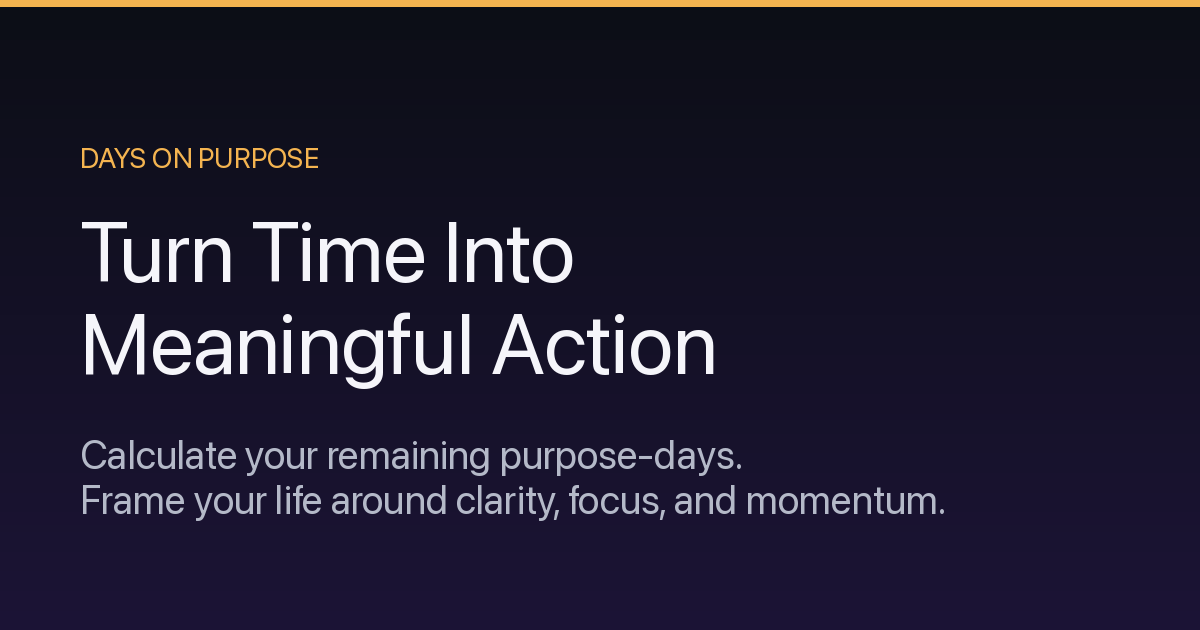
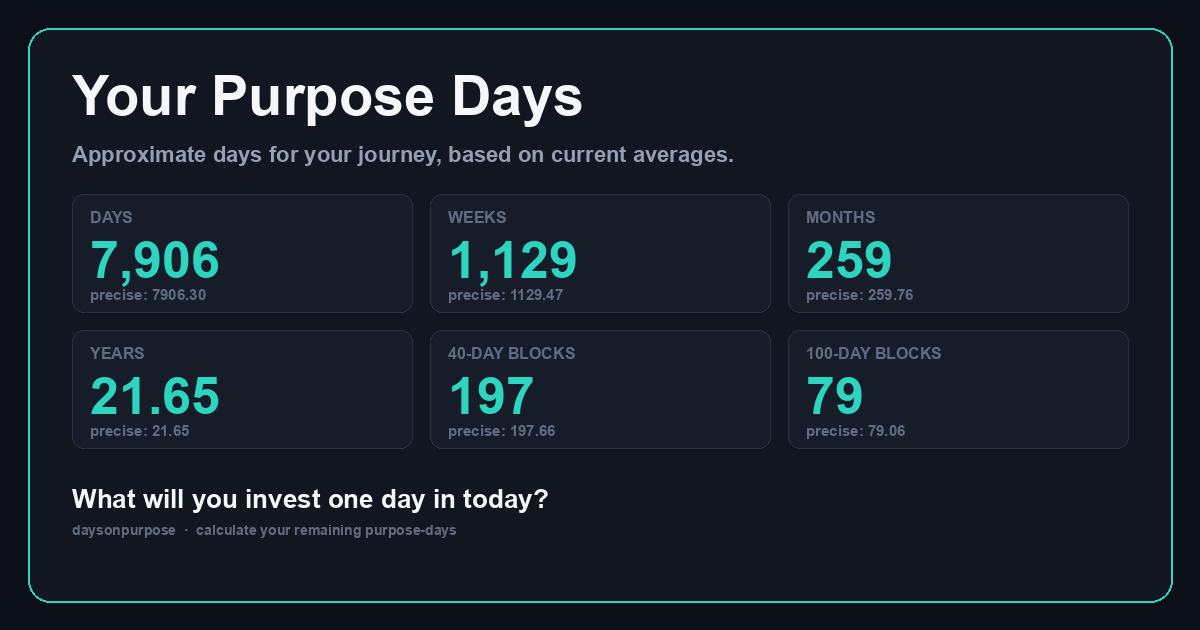
improve(seo): redesign og-image to match app UI
Replaces the plain marketing card with a faithful recreation of the
"Your Purpose Days" dashboard — dark panel, teal stat tiles, and the
"What will you invest one day in today?" callout. Makes the social
preview feel like the product instead of a generic splash.

diff --git a/scripts/make_og_image.py b/scripts/make_og_image.py
@@ -4,25 +4,25 @@ from pathlib import Path
 W, H = 1200, 630
 OUT = Path(__file__).resolve().parent.parent / "og-image.png"
 
-img = Image.new("RGB", (W, H), (12, 14, 22))
+BG = (11, 15, 23)
+PANEL = (17, 22, 32)
+CARD = (22, 28, 40)
+CARD_STROKE = (40, 50, 68)
+TEAL = (45, 212, 191)
+WHITE = (245, 247, 250)
+MUTED = (148, 159, 180)
+DIM = (95, 108, 130)
+
+img = Image.new("RGB", (W, H), BG)
 draw = ImageDraw.Draw(img)
 
-for y in range(H):
-    t = y / H
-    r = int(12 + (28 - 12) * t)
-    g = int(14 + (20 - 14) * t)
-    b = int(22 + (54 - 22) * t)
-    draw.line([(0, y), (W, y)], fill=(r, g, b))
 
-accent = (244, 180, 80)
-draw.rectangle([(0, 0), (W, 6)], fill=accent)
-
-def load(size, bold=False):
+def load(size):
     paths = [
-        "/System/Library/Fonts/SFNS.ttf",
+        "/System/Library/Fonts/Supplemental/Arial Bold.ttf",
         "/System/Library/Fonts/Helvetica.ttc",
-        "/System/Library/Fonts/Supplemental/Arial.ttf",
         "/Library/Fonts/Arial.ttf",
+        "/System/Library/Fonts/SFNS.ttf",
     ]
     for p in paths:
         try:
@@ -31,20 +31,85 @@ def load(size, bold=False):
             continue
     return ImageFont.load_default()
 
-title_font = load(84)
-sub_font = load(40)
-tag_font = load(28)
 
-margin_x = 80
+title_font = load(56)
+sub_font = load(22)
+label_font = load(16)
+num_font = load(52)
+precise_font = load(15)
+callout_font = load(26)
+fine_font = load(14)
 
-tag = "DAYS ON PURPOSE"
-draw.text((margin_x, 140), tag, font=tag_font, fill=accent)
+PAD = 28
+draw.rounded_rectangle(
+    [(PAD, PAD), (W - PAD, H - PAD)],
+    radius=22,
+    fill=PANEL,
+    outline=TEAL,
+    width=2,
+)
 
-title = "Turn Time Into\nMeaningful Action"
-draw.multiline_text((margin_x, 200), title, font=title_font, fill=(245, 245, 250), spacing=10)
+INNER_X = PAD + 44
+INNER_TOP = PAD + 36
 
-sub = "Calculate your remaining purpose-days.\nFrame your life around clarity, focus, and momentum."
-draw.multiline_text((margin_x, 430), sub, font=sub_font, fill=(180, 185, 200), spacing=6)
+draw.text((INNER_X, INNER_TOP), "Your Purpose Days", font=title_font, fill=WHITE)
+draw.text(
+    (INNER_X, INNER_TOP + 78),
+    "Approximate days for your journey, based on current averages.",
+    font=sub_font,
+    fill=MUTED,
+)
+
+cards = [
+    ("DAYS", "7,906", "precise: 7906.30"),
+    ("WEEKS", "1,129", "precise: 1129.47"),
+    ("MONTHS", "259", "precise: 259.76"),
+    ("YEARS", "21.65", "precise: 21.65"),
+    ("40-DAY BLOCKS", "197", "precise: 197.66"),
+    ("100-DAY BLOCKS", "79", "precise: 79.06"),
+]
+
+GRID_LEFT = INNER_X
+GRID_TOP = INNER_TOP + 130
+GRID_RIGHT = W - PAD - 44
+GUTTER = 18
+COLS = 3
+ROWS = 2
+grid_w = GRID_RIGHT - GRID_LEFT
+card_w = (grid_w - GUTTER * (COLS - 1)) / COLS
+card_h = 118
+
+for i, (label, value, precise) in enumerate(cards):
+    col = i % COLS
+    row = i // COLS
+    x0 = GRID_LEFT + col * (card_w + GUTTER)
+    y0 = GRID_TOP + row * (card_h + GUTTER)
+    x1 = x0 + card_w
+    y1 = y0 + card_h
+    draw.rounded_rectangle(
+        [(x0, y0), (x1, y1)],
+        radius=12,
+        fill=CARD,
+        outline=CARD_STROKE,
+        width=1,
+    )
+    draw.text((x0 + 18, y0 + 14), label, font=label_font, fill=DIM)
+    draw.text((x0 + 18, y0 + 36), value, font=num_font, fill=TEAL)
+    draw.text((x0 + 18, y0 + 92), precise, font=precise_font, fill=DIM)
+
+callout_y = GRID_TOP + ROWS * (card_h + GUTTER) + 18
+draw.text(
+    (INNER_X, callout_y),
+    "What will you invest one day in today?",
+    font=callout_font,
+    fill=WHITE,
+)
+draw.text(
+    (INNER_X, callout_y + 38),
+    "daysonpurpose  \u00b7  calculate your remaining purpose-days",
+    font=fine_font,
+    fill=DIM,
+)
 
 img.save(OUT, "PNG", optimize=True)
 print(f"wrote {OUT} ({OUT.stat().st_size} bytes)")
